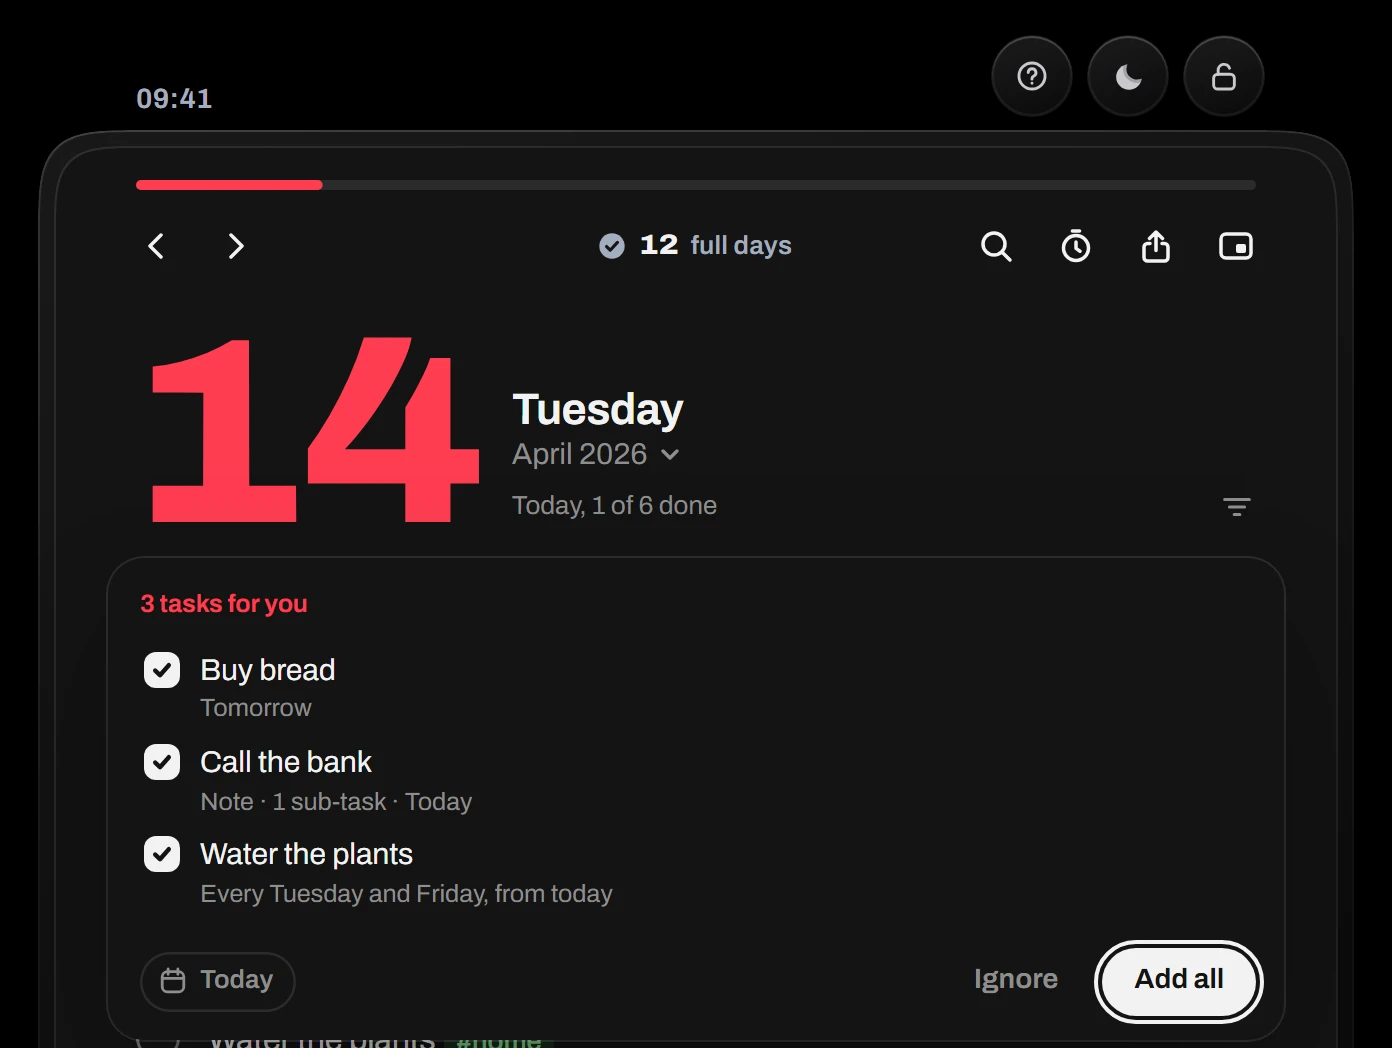
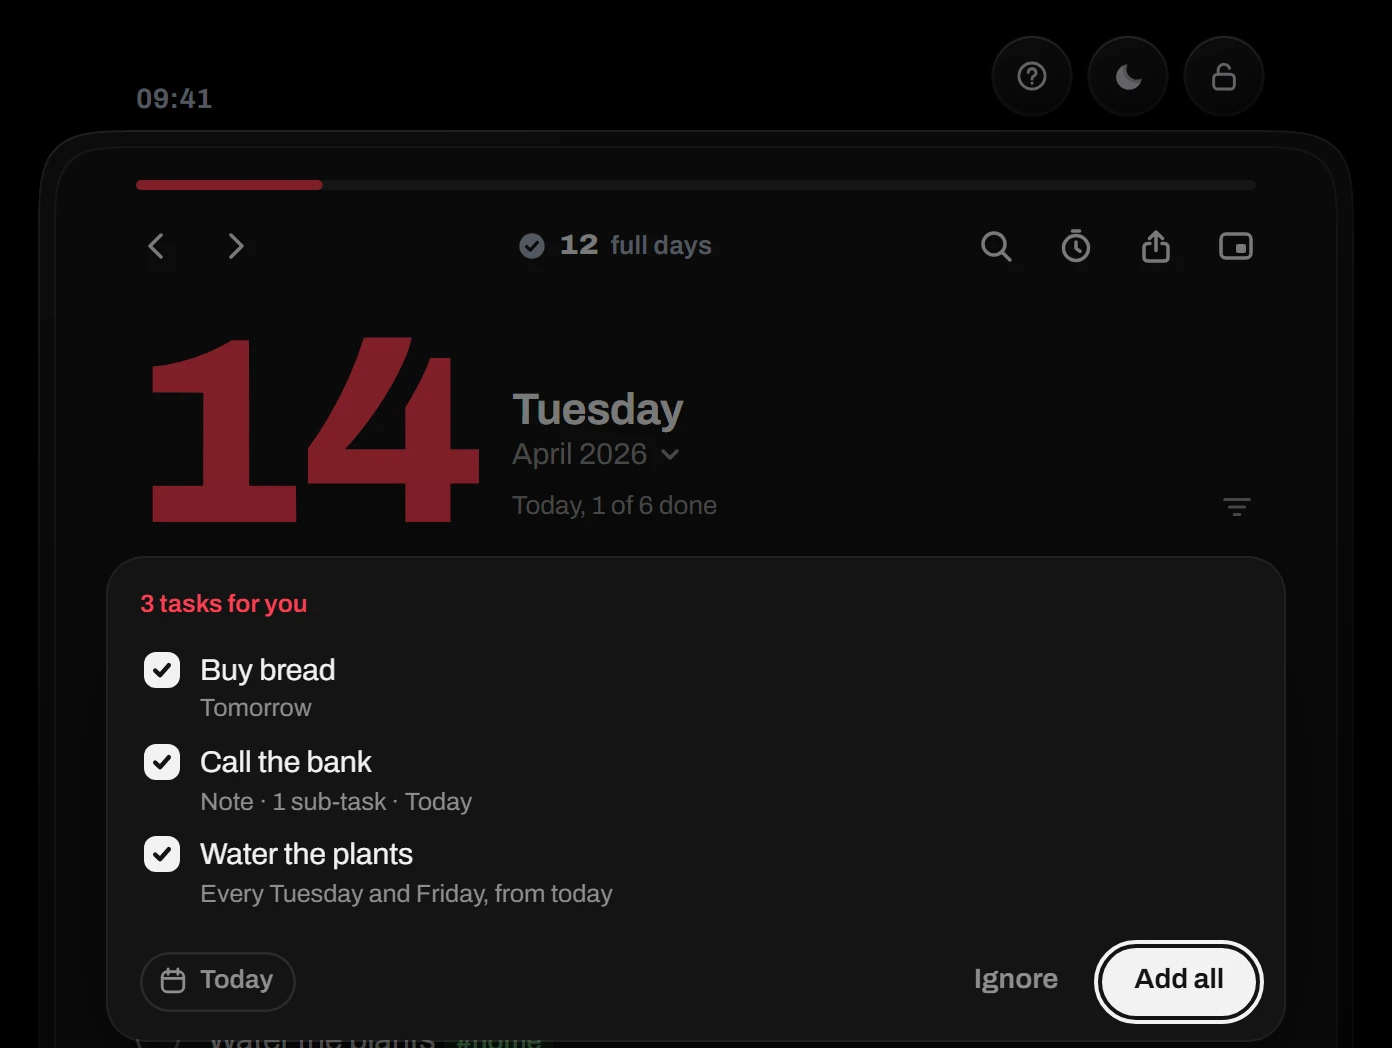
Sent tasks wait over a veil, the day behind holding still; the filter fits a narrow window
- The dialog of tasks sent by a link now sits over a veil that dims the page. While it waits for an answer nothing
  behind it moves: the wheel over its list scrolls the list only (no more day turned at its top or past its end),
  the wheel and the keys elsewhere do nothing, and the header, the day, the bottom bar, More, the time above the card
  and the footer are inert. Escape and the device's back are Ignore, as before; undo and redo still work. A click on
  the veil leaves the dialog open and makes it stir; one that shuts its day picker does only that. Opening it shuts
  More, the composer, search and the popovers. It is aria-modal.
- The date's row wraps: short of room (a narrow floating window) the filter's pill takes a line of its own under the
  date instead of covering it, and a long tag ends in an ellipsis. Narrower still, while no filter is on, its button
  waits at the end of the weekday's line.
- Guide: the dialog's two pictures retaken (npm run shots -- inbox, -- assistant).
- Tests: the veil holds the day still; the filter in a 280 px window. CACHE v60.

diff --git a/public/app.js b/public/app.js
@@ -15,7 +15,7 @@ try {
     home = document.getElementById('home'),
     q = s => app.querySelector(s),
     $ = {};
-  'num dnum meta wd mo rel prev next todayb dd ddv ddn ddw ddsr ddlive sb tmb tv float vp sc stage list empty carry carryTxt bring add input toast toastTxt undo pop popT grid pmPrev pmNext tpop seg tset trun tpv tminus tplus tpre tstart tbig tunit tsec tprog tpause tadd tstop tip fmt fmtIn lb lbA lbRm sug srch sq sx sres hl slist scount impf dchip dlabel dpop dq dpT dpPrev dpNext dgrid drep drepV rpop rseg rminus rnum rplus runit rdays rmon rsum rnone rdone inbox inT inTitle inMeta inList inDay inDayL inNo inYes mbar mbSearch mbTimer mbTimerL mbAdd mbSend mbMore scrim more moreList theme sendd fx fbtn fname fclr fpop ftags fnone fqL fq spicks lockb kb kpop addGo'
+  'num dnum meta wd mo rel prev next todayb dd ddv ddn ddw ddsr ddlive sb tmb tv float vp sc stage list empty carry carryTxt bring add input toast toastTxt undo pop popT grid pmPrev pmNext tpop seg tset trun tpv tminus tplus tpre tstart tbig tunit tsec tprog tpause tadd tstop tip fmt fmtIn lb lbA lbRm sug srch sq sx sres hl slist scount impf dchip dlabel dpop dq dpT dpPrev dpNext dgrid drep drepV rpop rseg rminus rnum rplus runit rdays rmon rsum rnone rdone inbox inVeil inT inTitle inMeta inList inDay inDayL inNo inYes mbar mbSearch mbTimer mbTimerL mbAdd mbSend mbMore scrim more moreList theme sendd fx fbtn fname fclr fpop ftags fnone fqL fq spicks lockb kb kpop addGo'
     .split(' ')
     .forEach(id => ($[id] = q('#' + id)));
   const fill = q('.rule i'),
@@ -2329,6 +2329,11 @@ try {
     return false;
   }
   function onWheel(e) {
+    // a sent task waiting for an answer: only its own list scrolls, and nothing behind it moves
+    if (app.classList.contains('inboxing')) {
+      if (!e.ctrlKey && !(e.target.closest && e.target.closest('#inList') && scrollsY(e.target, e.deltaY))) e.preventDefault();
+      return;
+    }
     if (P || e.ctrlKey || $.srch.classList.contains('on') || popOn()) return;
     const k = e.deltaMode === 1 ? 16 : e.deltaMode === 2 ? innerHeight : 1,
       dx = e.deltaX * k,
@@ -2542,13 +2547,15 @@ try {
       go(b.dataset.k);
     }
   };
+  let downPop = false;
   function onOutside(e) {
+    downPop = popOn();
     const t = e.target && e.target.closest ? e.target : null;
     // the lock's screen and dialog sit above the app: what happens there leaves the app as it is
     if (t && t.closest('#lock,#lockset')) return;
     if ($.srch.classList.contains('on') && t && !app.contains(t)) closeSearch(false);
     if (popOn() && !(t && t.closest('#pop,#meta,#tpop,#tmb,#dpop,#dchip,#rpop,.rbtn,#inDay,#mbTimer,#fpop,#fx,#kpop,#kb'))) closePops();
-    if (t && t.closest('#fmt,#lb,#sug,#toast,.srch,#dpop,#rpop,#inbox,#more,#mbar,#scrim')) return;
+    if (t && t.closest('#fmt,#lb,#sug,#toast,.srch,#dpop,#rpop,#inbox,#inVeil,#more,#mbar,#scrim')) return;
     const keep = t && t.closest('.row.open');
     for (const li of $.list.querySelectorAll('.row.open')) if (li !== keep) setOpen(li, false);
     for (const id of [...openIds]) if (!keep || keep.dataset.id !== id) openIds.delete(id);
@@ -5009,7 +5016,8 @@ try {
   }
   function renderFilter() {
     const move = !RM.matches && $.fx.getClientRects().length > 0,
-      w0 = move ? $.fx.getBoundingClientRect().width : 0;
+      r0 = move ? $.fx.getBoundingClientRect() : null,
+      w0 = move ? r0.width : 0;
     if (move) $.fx.getAnimations().forEach(a => a.id === 'fw' && a.cancel());
     $.fx.classList.toggle('on', !!FX);
     $.fname.textContent = FX ? '#' + FX : '';
@@ -5018,8 +5026,15 @@ try {
     $.fbtn.dataset.tip = FX ? 'Change the filter' : 'Filter by tag';
     $.input.placeholder = FX ? `Add a task to #${FX}` : 'Add a task';
     if (!move) return;
-    const w1 = $.fx.getBoundingClientRect().width;
+    const r1 = $.fx.getBoundingClientRect(),
+      w1 = r1.width;
     if (Math.abs(w1 - w0) < 0.5) return;
+    // short of room, it went to a line of its own under the date (or came back): it appears there, without
+    // stretching across the jump
+    if (Math.abs(r1.top - r0.top) > 1) {
+      an($.fx, [{ opacity: 0, transform: 'scale(.92)' }, { opacity: 1, transform: 'none' }], { easing: POP.ease, duration: POP.dur });
+      return;
+    }
     $.fx.style.overflow = 'hidden';
     const a = $.fx.animate([{ width: w0 + 'px' }, { width: w1 + 'px' }], { duration: SP.dur, easing: SP.ease });
     a.id = 'fw';
@@ -6142,6 +6157,7 @@ try {
       IN = null;
       $.inbox.hidden = true;
       unguard('inbox');
+      holdBehind(false);
     }
     toast('That link doesn’t hold a task');
   }
@@ -6178,6 +6194,12 @@ try {
       : '';
     $.inTitle.innerHTML = many ? '' : titleHTML(list[0].task.text);
     renderInbox();
+    // what was open closes: the sent tasks are the one thing to answer
+    closeMore();
+    compose(false);
+    closePops();
+    closeSearch(false);
+    holdBehind(true);
     $.inbox.style.top = q('header').offsetHeight - 6 + 'px';
     $.inbox.getAnimations().forEach(x => x.cancel());
     $.inbox.hidden = false;
@@ -6247,10 +6269,52 @@ try {
       m.hidden = !s;
     });
   }
+  /* While they wait for an answer, the day behind dims and holds still: it does not scroll or turn, and nothing there
+     takes a click, a tab or a key. */
+  let inHeld = null;
+  function holdBehind(on) {
+    const v = $.inVeil;
+    app.classList.toggle('inboxing', on);
+    if (on && !inHeld) {
+      inHeld = [q('header'), $.vp, $.mbar, $.more, document.getElementById('topbar'), document.getElementById('foot')]
+        .filter(Boolean)
+        .map(el => [el, el.inert]);
+      for (const [el] of inHeld) el.inert = true;
+    } else if (!on && inHeld) {
+      for (const [el, was] of inHeld) el.inert = was;
+      inHeld = null;
+    }
+    if (on) {
+      v.getAnimations().forEach(x => x.cancel());
+      delete v.dataset.out;
+      if (v.hidden) {
+        v.hidden = false;
+        an(v, [{ opacity: 0 }, { opacity: 1 }], { duration: 220, easing: 'ease' });
+      }
+    } else if (!v.hidden && !v.dataset.out) {
+      v.dataset.out = '1';
+      then(an(v, [{ opacity: 1 }, { opacity: 0 }], { duration: 180, easing: 'ease', fill: 'forwards' }), () => {
+        if (!v.dataset.out) return;
+        delete v.dataset.out;
+        v.getAnimations().forEach(x => x.cancel());
+        v.hidden = true;
+      });
+    }
+  }
+  // A click beside it changes nothing: the card stirs to say it waits for Add or Ignore (Escape and back are Ignore).
+  // A click that only shut the day picker does just that.
+  $.inVeil.addEventListener('click', () => {
+    if (downPop || !IN || $.inbox.getAnimations().length) return;
+    an($.inbox, [{ transform: 'none' }, { transform: 'scale(1.018)' }, { transform: 'none' }], {
+      duration: 320,
+      easing: 'cubic-bezier(.3,0,.3,1)',
+    });
+  });
   function closeInbox() {
     if ($.inbox.hidden) return;
     unguard('inbox');
     IN = null;
+    holdBehind(false);
     if ($.dpop.classList.contains('on') && DPX === 'in') closePops();
     then(
       an($.inbox, [{ opacity: 1 }, { opacity: 0, transform: 'translateY(-8px) scale(.98)' }], {
@@ -6792,6 +6856,19 @@ try {
       }
       return;
     }
+    // sent tasks waiting for an answer (not once answered, while the dialog fades): Escape is Ignore (or shuts the
+    // day picker first), undo and redo still work, and no other key reaches the day behind them; the picker keeps
+    // its own arrows
+    if (app.classList.contains('inboxing')) {
+      if (k === 'Escape') {
+        e.preventDefault();
+        if (popOn()) closePops(true);
+        else closeInbox();
+        return;
+      }
+      const undoKey = m && !e.altKey && (kl === 'z' || kl === 'y');
+      if (!undoKey && (m || e.altKey || !(popOn() && t.closest && t.closest('#dpop')))) return;
+    }
     if (m && !e.altKey && (kl === 'z' || kl === 'y')) {
       const own = t.isContentEditable || (/^(INPUT|TEXTAREA)$/.test(t.tagName) && t.type !== 'checkbox' && t.value);
       if (!own) {
@@ -6819,11 +6896,6 @@ try {
       e.preventDefault();
       closeMore();
       compose(false);
-      return;
-    }
-    if (k === 'Escape' && !$.inbox.hidden && !popOn()) {
-      e.preventDefault();
-      closeInbox();
       return;
     }
     if (typing || m) return;

diff --git a/public/app.css b/public/app.css
@@ -646,11 +646,14 @@ header {
   font-variant-numeric: tabular-nums;
 }
 
+/* short of room (a narrow floating window), the filter goes to a line of its own under the date */
 .date {
+  container: date / inline-size;
   position: relative;
   display: flex;
+  flex-wrap: wrap;
   align-items: flex-end;
-  gap: clamp(12px, 3vw, 20px);
+  gap: 8px clamp(12px, 3vw, 20px);
   padding: 4px 0 22px;
 }
 .num {
@@ -730,6 +733,8 @@ header {
   display: flex;
   align-items: center;
   align-self: flex-end;
+  min-width: 0;
+  max-width: 100%;
   margin: 0 -8px -6px auto;
   border-radius: 16px;
   transition:
@@ -770,6 +775,15 @@ header {
 .fclr:active {
   transform: scale(0.95);
 }
+/* a tag too long for the line ends in an ellipsis */
+.fbtn {
+  min-width: 0;
+}
+#fname {
+  overflow: hidden;
+  text-overflow: ellipsis;
+  white-space: nowrap;
+}
 #fname:empty {
   display: none;
 }
@@ -797,6 +811,16 @@ header {
 .fx.on .fclr svg {
   width: 16px;
   height: 16px;
+}
+/* narrower still, while no filter is on, its quiet button waits at the end of the weekday's line, where there is
+   room, instead of taking a line for itself (below 230px even "Wednesday" leaves none) */
+@container date (230px <= width <= 280px) {
+  .fx:not(.on) {
+    position: absolute;
+    top: 4px;
+    right: 0;
+    margin: 0 -8px 0 0;
+  }
 }
 .pop.fpop {
   left: auto;
@@ -2378,10 +2402,24 @@ input::placeholder {
   }
 }
 
-/* a task someone sent you */
+/* a task someone sent you, over a veil: the day behind dims and holds still until it is answered. Above the bottom
+   bar and the drawers, and its day picker above it. */
+.inveil {
+  position: fixed;
+  inset: 0;
+  z-index: 49;
+  background: light-dark(rgb(0 0 0 / 0.24), rgb(0 0 0 / 0.5));
+  touch-action: none;
+}
+.inveil[data-out] {
+  pointer-events: none;
+}
+#app.inboxing .dpop {
+  z-index: 51;
+}
 .inbox {
   position: absolute;
-  z-index: 25;
+  z-index: 50;
   left: calc(var(--pad) - 14px);
   right: calc(var(--pad) - 14px);
   padding: 14px 14px 12px 16px;

diff --git a/public/index.html b/public/index.html
@@ -414,7 +414,8 @@
             ><button type="button" class="pbtn" id="rdone">Done</button>
           </div>
         </div>
-        <div class="inbox" id="inbox" role="dialog" aria-labelledby="inT" hidden>
+        <div class="inveil" id="inVeil" hidden></div>
+        <div class="inbox" id="inbox" role="dialog" aria-modal="true" aria-labelledby="inT" hidden>
           <p class="inT" id="inT">A task for you</p>
           <div class="incard">
             <span class="mini" aria-hidden="true"></span>

diff --git a/public/sw.js b/public/sw.js
@@ -1,6 +1,6 @@
 /* One Day service worker: makes the app open instantly and work offline, even from a cold start.
    It only caches the app's own files, and its guide. It never sees your tasks, which live in localStorage. */
-const CACHE = 'one-day-v59';
+const CACHE = 'one-day-v60';
 const SHELL = [
   './',
   './app.css',
